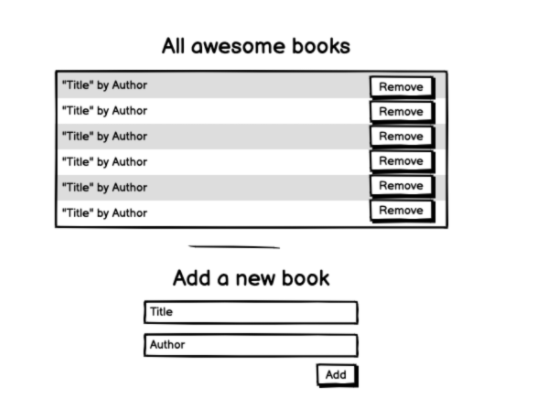
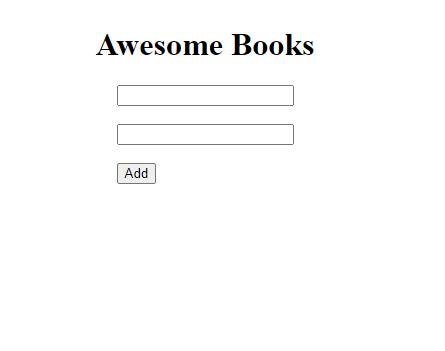
Update README

Changed region(s): [[0.0876, 0.0855, 0.8472, 0.5983], [0.2629, 0.7123, 0.6719, 0.9402], [0.3213, 0.6268, 0.6135, 0.6838]]

diff --git a/awesome_book.html b/awesome_book.html
@@ -7,6 +7,7 @@
   <title>Awesome Book</title>
 </head>
 <body>
+  <div style="display: flex; flex-direction: column; justify-content: center; align-items: center;">
   <h1>Awesome Books</h1>
   <div id="list">
   
@@ -21,6 +22,7 @@
     <br><br>
     <input type="submit" value="Add" id="add">
   </form>
+</div>
   <script src="js/book_list.js"></script>
 </body>
 </html>
